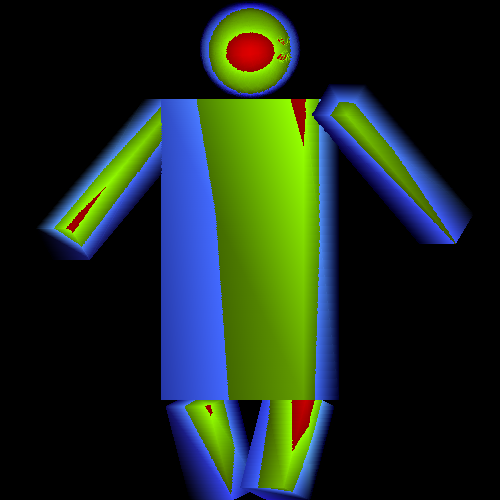
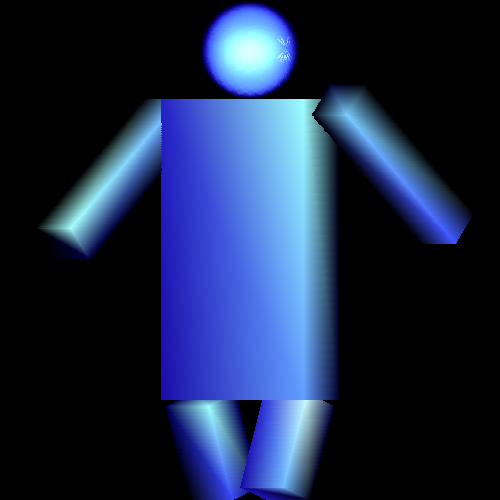
PLEASE

diff --git a/draw.c b/draw.c
@@ -315,12 +315,7 @@ void draw_polygons( struct matrix * polygons, screen s, color c, struct matrix* 
 					cT.red = Ia.red + Id.red + Is.red;
       					cT.blue = Ia.blue + Id.blue + Is.blue;
 					cT.green = Ia.green + Id.green + Is.green;
-					cT.red = cT.red>255?255:cT.red;
-					cT.red = cT.red<0?0:cT.red;
-					cT.green = cT.green>255?255:cT.green;
-					cT.green = cT.green<0?0:cT.green;
-					cT.blue = cT.blue>255?255:cT.blue;
-					cT.blue = cT.blue<0?0:cT.blue;
+					
 					add_point(t_vals,cT.red,cT.green,cT.blue);
 					// printf("cT before: %f, %f, %f",cT.red, cT.green, cT.blue);
 				}
@@ -350,12 +345,7 @@ void draw_polygons( struct matrix * polygons, screen s, color c, struct matrix* 
 					cM.red = Ia.red + Id.red + Is.red;
 					cM.blue = Ia.blue + Id.blue + Is.blue;					
 					cM.green = Ia.green + Id.green + Is.green;
-					cM.red = cM.red>255?255:cM.red;
-					cM.red = cM.red<0?0:cM.red;
-					cM.green = cM.green>255?255:cM.green;
-					cM.green = cM.green<0?0:cM.green;
-					cM.blue = cM.blue>255?255:cM.blue;
-					cM.blue = cM.blue<0?0:cM.blue;
+					
 					add_point(m_vals,cM.red,cM.green,cM.blue);
 				}
 				if(nearly_equal(vertices->m[0][j], xB)&&nearly_equal(vertices->m[1][j],yB)&&nearly_equal(vertices->m[2][j],zB)){
@@ -384,12 +374,7 @@ void draw_polygons( struct matrix * polygons, screen s, color c, struct matrix* 
 					cB.red = Ia.red + Id.red + Is.red;
       					cB.blue = Ia.blue + Id.blue + Is.blue;
 					cB.green = Ia.green + Id.green + Is.green;
-					cB.red = cB.red>255?255:cB.red;
-					cB.red = cB.red<0?0:cB.red;
-					cB.green = cB.green>255?255:cB.green;
-					cB.green = cB.green<0?0:cB.green;
-					cB.blue = cB.blue>255?255:cB.blue;
-					cB.blue = cB.blue<0?0:cB.blue;
+					
 					add_point(b_vals,cB.red,cB.green,cB.blue);
 				}
 				
@@ -403,6 +388,7 @@ void draw_polygons( struct matrix * polygons, screen s, color c, struct matrix* 
 			cB.red = 0;
 			cB.blue = 0;
 			cB.green = 0;
+			
 			for(k = 0; k < t_vals->lastcol; k++){
 			  cT.red+=t_vals->m[0][k];
 			  cT.green +=t_vals->m[1][k];
@@ -418,7 +404,24 @@ void draw_polygons( struct matrix * polygons, screen s, color c, struct matrix* 
 			  cB.green +=b_vals->m[1][k];
 			  cB.blue+=b_vals->m[2][k];
 			}
-			
+			cT.red = cT.red>255?255:cT.red;
+			cT.red = cT.red<0?0:cT.red;
+			cT.green = cT.green>255?255:cT.green;
+			cT.green = cT.green<0?0:cT.green;
+			cT.blue = cT.blue>255?255:cT.blue;
+			cT.blue = cT.blue<0?0:cT.blue;
+			cM.red = cM.red>255?255:cM.red;
+			cM.red = cM.red<0?0:cM.red;
+			cM.green = cM.green>255?255:cM.green;
+			cM.green = cM.green<0?0:cM.green;
+			cM.blue = cM.blue>255?255:cM.blue;
+			cM.blue = cM.blue<0?0:cM.blue;cM.red = cM.red>255?255:cM.red;
+			cB.red = cB.red>255?255:cB.red;
+			cB.red = cB.red<0?0:cB.red;
+			cB.green = cB.green>255?255:cB.green;
+			cB.green = cB.green<0?0:cB.green;
+			cB.blue = cB.blue>255?255:cB.blue;
+			cB.blue = cB.blue<0?0:cB.blue;
 			// printf("here2\n");
 			//printf("here3\n");
 			//3 outlines
